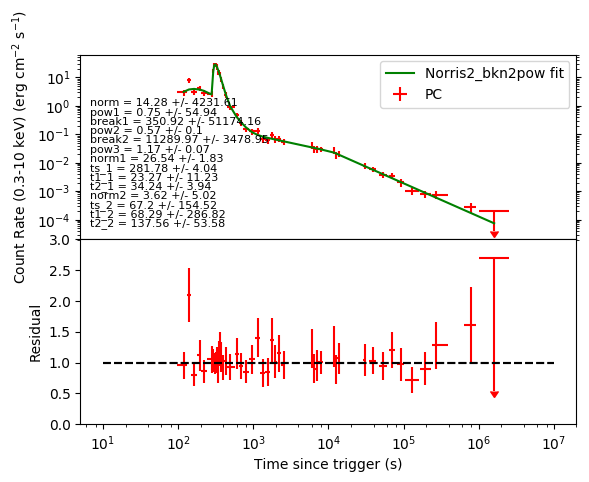
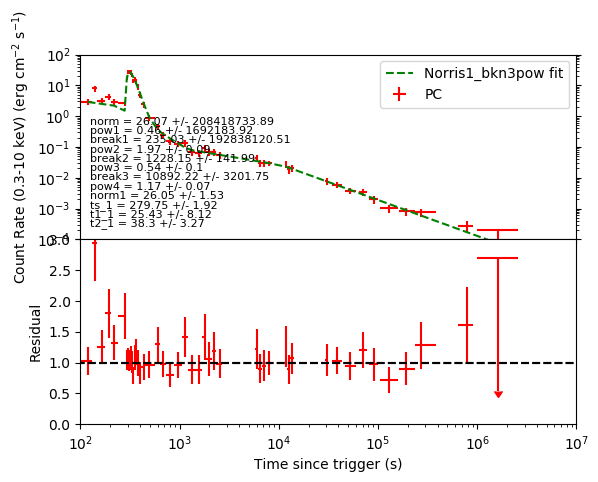
redoing fits

diff --git a/code/fit_lc.py b/code/fit_lc.py
@@ -21,7 +21,7 @@ from scipy.optimize import curve_fit
 from scipy import stats
 import glob
 
-def fit_lcs(dir=None,review=False,norris=True):
+def fit_lcs(dir=None,review=False,norris=True,start=0):
 	# see which GRBs not yet fit and fit them
 	# norris differentiate
 
@@ -34,9 +34,14 @@ def fit_lcs(dir=None,review=False,norris=True):
 		nd=[dir]
 		g=dir
 
+	i=start
+	nd=nd[start:]
+	print('Starting with ',start)
+
 	print("Let's fit GRB LCs")
 	for g in nd:
 		print(g)
+		print(i)
 		if dir=='': dir=g+'/'
 		gtitle=re.split('/',g)[0]
 		lc=read_lc(dir=dir)
@@ -63,7 +68,8 @@ def fit_lcs(dir=None,review=False,norris=True):
 				p,ft=fit_the_lc(dir=dir,ft=ft,norris=norris)
 #				print ft
 				redo=raw_input('Redo the fit? (y/N) ').upper()
-
+				if redo=='S': return
+		i=i+1
 		dir=''
 
 def ftest(chisq1,chisq2,oldterms,numpoints,addterms):
@@ -643,12 +649,25 @@ def plot_lcfit(grbdict=None,lc=None,p={},resid=True,noshow=False):
 	if p != {}:
 		print(p.model)
 #		yfit=getattr(importlib.import_module('fit_functions'),p.model)(lc['Time'],p.par)
-		if p.numbreaks>0: 
+		btime=[]
+		print p.numbreaks
+		if p.numbreaks>1: 
 			t=np.append(np.array(lc['Time']),p.par[2+np.arange(p.numbreaks)*2])
+			btime=np.append(btime,p.par[2+np.arange(p.numbreaks)*2])
 			t.sort()
-		else: t=np.array(lc['Time'])
+		else:
+			if p.numbreaks==1:
+				t=np.append(np.array(lc['Time']),p.par[2])
+				btime=np.append(btime,p.par[2])
+				t.sort()
+			else: t=np.array(lc['Time'])
+
 		yfit=fit_functions.call_function(p.model,t,*p.par)
 		ax1.plot(t,yfit,color='green',label=p.model+' fit',linestyle='--')
+
+		for b in btime:
+			ax1.plot([b,b],[1e-5,1e5],color='purple',linestyle=':')
+
 		nump=len(p.pnames)
 		for i in range(0,nump):
 		 	ax1.annotate(p.pnames[i]+' = '+str(round(p.par[i],2))+' +/- '+str(round(p.perror[i][0],2)),xy=(0.02,0.02+0.05*(nump-i)),xycoords='axes fraction',fontsize=8)
@@ -952,10 +971,13 @@ class fit_params:
 		if 'pow' in model: 
 			bk=re.split('bkn|pow',model)
 			wbk='bkn' in bk
-			if wbk != False:
-				self.numbreaks=int(bk[wbk+1])
+			if 'bknpow' in model:
+				self.numbreaks=1
 			else:
-				self.numbreaks=0
+				if wbk != False:
+					self.numbreaks=int(bk[wbk+1])
+				else:
+					self.numbreaks=0
 		else:
 			self.numbreaks=0
 		if ('gauss' in model) or ('Norris' in model):
